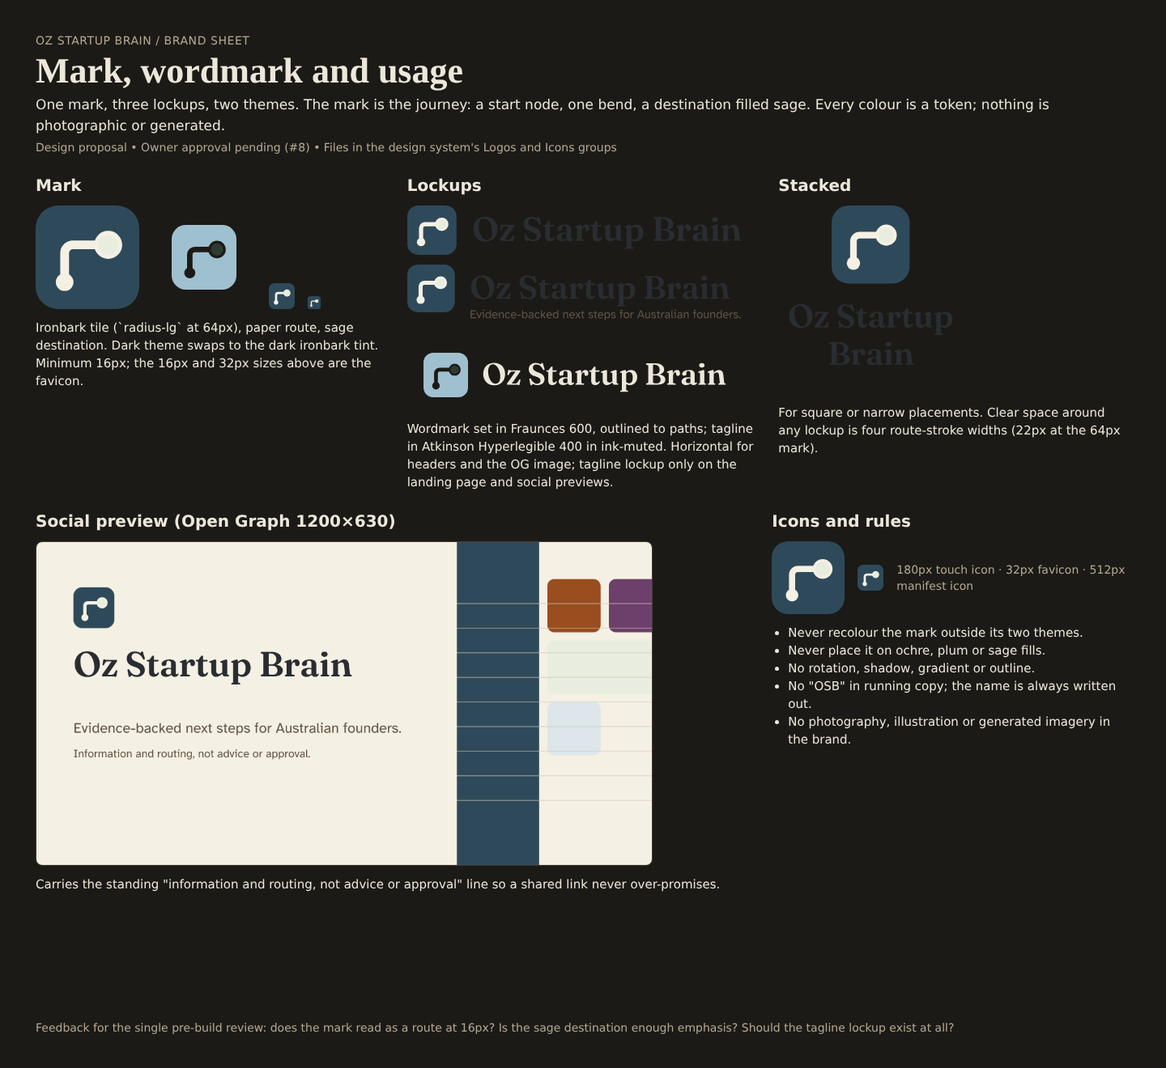
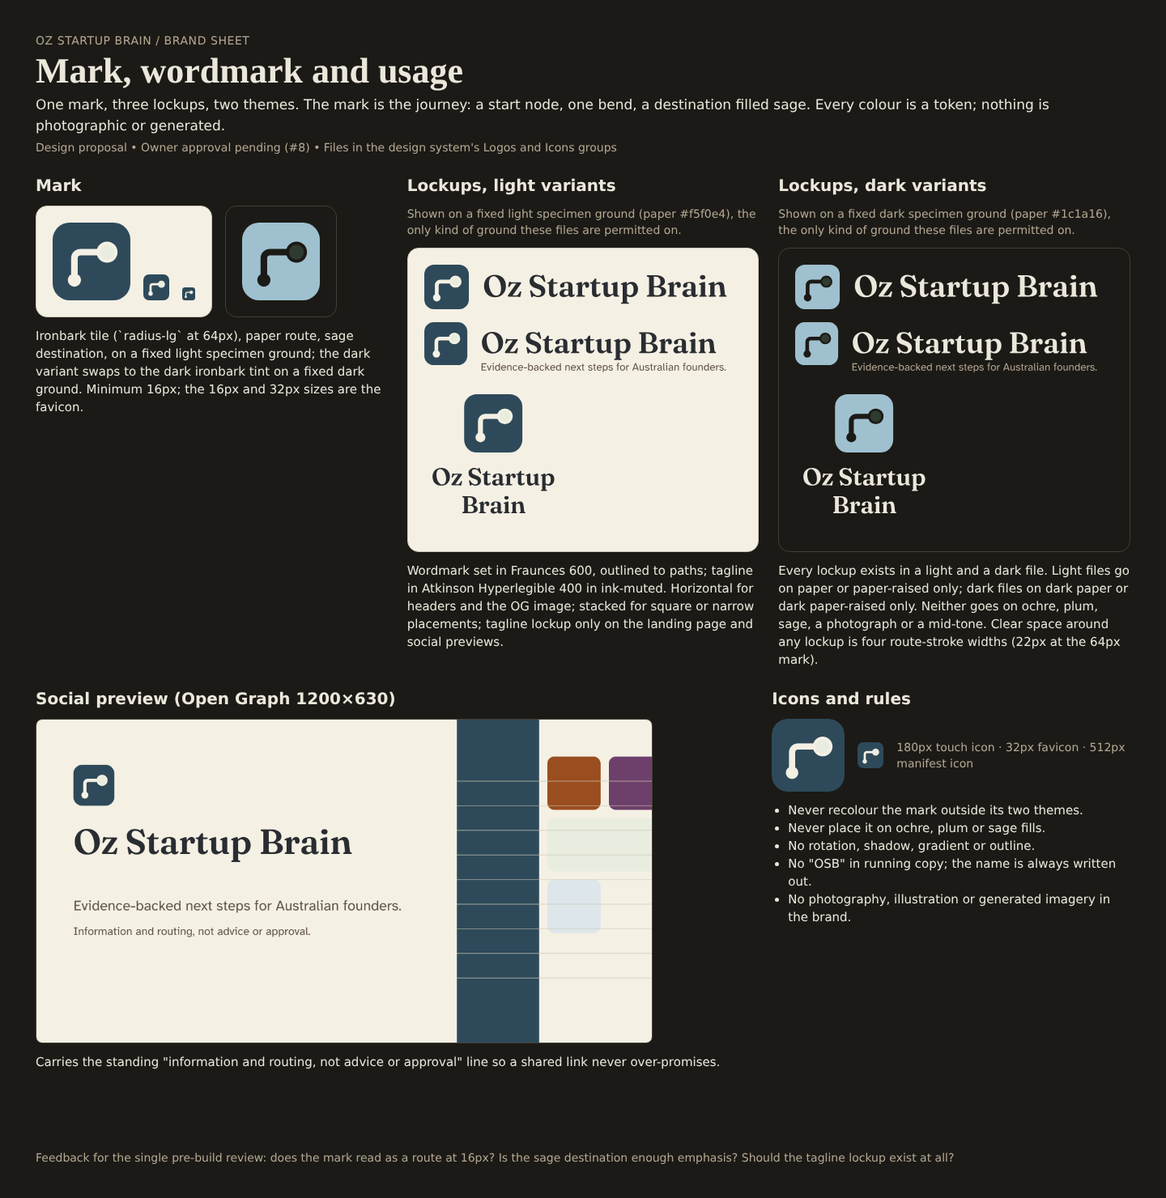
design: brand sheet on fixed specimen grounds; dark stacked/tagline lockups; reconcile embedded system version
Addresses the owner's review of PR #17:

1. Brand sheet: every lockup file is now shown on a fixed specimen ground of
   the kind it is permitted on (light files on paper #f5f0e4, dark files on
   dark paper #1c1a16) instead of on the theme-dependent page paper, so the
   dark render is readable. Stacked and tagline lockups gain dark files
   (wordmark-stacked-dark.svg, wordmark-tagline-dark.svg, with rasters),
   uploaded to the design system's Logos group and to the canvas. The Logos
   README, the brand book and the sheet state the permitted grounds for
   each file. Sheet height 1320 -> 1480; bounds check still passes.

2. Embedded design-system version: the files the canvas embeds were compared
   byte for byte with the committed system export and were identical; the
   stale stamp in canvas.json is replaced by the version actually copied
   (now system version 9, after the Logos README change) and the mock-ups
   handoff records the check. All three handoffs carry the new stamps
   (system v9 1793909088-3a56, canvas v14 1793909145-03de).

3. Renderer regression tests: two new cases, an unmapped blob ID and a
   mapped-but-missing asset file, both of which must fail in both themes
   and name the broken asset. 5 tests pass.

Claude-Session: https://claude.ai/code/session_01GGe58LcKV8w2qgCKuFGDot

diff --git a/design/mockups/Brand-Sheet.dc.html b/design/mockups/Brand-Sheet.dc.html
@@ -18,7 +18,7 @@ body{margin:0;background:var(--paper);color:var(--ink);font-family:var(--font-sa
 a{color:var(--ironbark)}a:hover{color:var(--ink)}
 </style>
 </helmet>
-<div style="width: 1440px; height: 1320px; box-sizing: border-box; padding: 40px 44px; display: flex; flex-direction: column; gap: 24px; background: var(--paper); color: var(--ink); font-family: var(--font-sans);">
+<div style="width: 1440px; height: 1480px; box-sizing: border-box; padding: 40px 44px; display: flex; flex-direction: column; gap: 24px; background: var(--paper); color: var(--ink); font-family: var(--font-sans);">
   <div style="display: flex; flex-direction: column; gap: 4px;">
     <p style="margin: 0; font-size: 14px; line-height: 20px; color: var(--ink-muted); text-transform: uppercase; letter-spacing: 0.04em;">Oz Startup Brain / Brand sheet</p>
     <h1 style="margin: 0; font-family: var(--font-display); font-size: 44px; line-height: 48px; font-weight: 600;">Mark, wordmark and usage</h1>
@@ -30,24 +30,34 @@ a{color:var(--ironbark)}a:hover{color:var(--ink)}
     <div style="display: flex; flex-direction: column; gap: 12px; min-width: 0;">
       <h2 style="margin: 0; font-size: 20px; line-height: 26px; font-weight: 700;">Mark</h2>
       <div style="display: flex; gap: 16px; align-items: flex-end;">
-        <img src="/_blob/dc53e1856b394cde767255e8a132b3ce" alt="Oz Startup Brain mark, light theme" style="width: 128px; height: 128px;">
-        <div style="box-sizing: border-box; padding: 24px; border-radius: 14px; background: #1c1a16;"><img src="/_blob/ce147218370253c6ab9744f53c52067c" alt="Oz Startup Brain mark, dark theme" style="width: 80px; height: 80px; display: block;"></div>
-        <img src="/_blob/dc53e1856b394cde767255e8a132b3ce" alt="" style="width: 32px; height: 32px;">
-        <img src="/_blob/dc53e1856b394cde767255e8a132b3ce" alt="" style="width: 16px; height: 16px;">
+        <div style="box-sizing: border-box; display: flex; gap: 16px; align-items: flex-end; padding: 20px; border-radius: 14px; background: #f5f0e4; border: 1px solid #cfc8b8;">
+          <img src="/_blob/dc53e1856b394cde767255e8a132b3ce" alt="Oz Startup Brain mark, light variant" style="width: 96px; height: 96px; display: block;">
+          <img src="/_blob/dc53e1856b394cde767255e8a132b3ce" alt="" style="width: 32px; height: 32px; display: block;">
+          <img src="/_blob/dc53e1856b394cde767255e8a132b3ce" alt="" style="width: 16px; height: 16px; display: block;">
+        </div>
+        <div style="box-sizing: border-box; padding: 20px; border-radius: 14px; background: #1c1a16; border: 1px solid #443e35;"><img src="/_blob/ce147218370253c6ab9744f53c52067c" alt="Oz Startup Brain mark, dark variant" style="width: 96px; height: 96px; display: block;"></div>
       </div>
-      <p style="margin: 0; font-size: 15px; line-height: 22px;">Ironbark tile (`radius-lg` at 64px), paper route, sage destination. Dark theme swaps to the dark ironbark tint. Minimum 16px; the 16px and 32px sizes above are the favicon.</p>
+      <p style="margin: 0; font-size: 15px; line-height: 22px;">Ironbark tile (`radius-lg` at 64px), paper route, sage destination, on a fixed light specimen ground; the dark variant swaps to the dark ironbark tint on a fixed dark ground. Minimum 16px; the 16px and 32px sizes are the favicon.</p>
     </div>
     <div style="display: flex; flex-direction: column; gap: 12px; min-width: 0;">
-      <h2 style="margin: 0; font-size: 20px; line-height: 26px; font-weight: 700;">Lockups</h2>
-      <img src="/_blob/329e5881af294a2bc191a2ba51b20d5d" alt="Horizontal wordmark: mark beside Oz Startup Brain" style="width: 100%; max-width: 420px; height: auto;">
-      <img src="/_blob/7c6db78fd45293ff9f0ca7d340078987" alt="Horizontal wordmark with tagline" style="width: 100%; max-width: 420px; height: auto;">
-      <div style="box-sizing: border-box; padding: 16px 20px; border-radius: 14px; background: #1c1a16;"><img src="/_blob/e25cdf1e4052de6748f783078e850b22" alt="Horizontal wordmark, dark theme" style="width: 100%; max-width: 380px; height: auto; display: block;"></div>
-      <p style="margin: 0; font-size: 15px; line-height: 22px;">Wordmark set in Fraunces 600, outlined to paths; tagline in Atkinson Hyperlegible 400 in ink-muted. Horizontal for headers and the OG image; tagline lockup only on the landing page and social previews.</p>
+      <h2 style="margin: 0; font-size: 20px; line-height: 26px; font-weight: 700;">Lockups, light variants</h2>
+      <p style="margin: 0; font-size: 14px; line-height: 20px; color: var(--ink-muted);">Shown on a fixed light specimen ground (paper #f5f0e4), the only kind of ground these files are permitted on.</p>
+      <div style="box-sizing: border-box; display: flex; flex-direction: column; gap: 16px; padding: 20px; border-radius: 14px; background: #f5f0e4; border: 1px solid #cfc8b8;">
+        <img src="/_blob/329e5881af294a2bc191a2ba51b20d5d" alt="Horizontal wordmark, light variant: mark beside Oz Startup Brain" style="width: 100%; max-width: 380px; height: auto; display: block;">
+        <img src="/_blob/7c6db78fd45293ff9f0ca7d340078987" alt="Horizontal wordmark with tagline, light variant" style="width: 100%; max-width: 380px; height: auto; display: block;">
+        <img src="/_blob/5517cf27ba9d00c6c8b4dd4e6cbb2eab" alt="Stacked wordmark, light variant: mark above Oz Startup Brain on two lines" style="width: 170px; height: auto; display: block;">
+      </div>
+      <p style="margin: 0; font-size: 15px; line-height: 22px;">Wordmark set in Fraunces 600, outlined to paths; tagline in Atkinson Hyperlegible 400 in ink-muted. Horizontal for headers and the OG image; stacked for square or narrow placements; tagline lockup only on the landing page and social previews.</p>
     </div>
     <div style="display: flex; flex-direction: column; gap: 12px; min-width: 0;">
-      <h2 style="margin: 0; font-size: 20px; line-height: 26px; font-weight: 700;">Stacked</h2>
-      <img src="/_blob/5517cf27ba9d00c6c8b4dd4e6cbb2eab" alt="Stacked wordmark: mark above Oz Startup Brain on two lines" style="width: 228px; height: auto;">
-      <p style="margin: 0; font-size: 15px; line-height: 22px;">For square or narrow placements. Clear space around any lockup is four route-stroke widths (22px at the 64px mark).</p>
+      <h2 style="margin: 0; font-size: 20px; line-height: 26px; font-weight: 700;">Lockups, dark variants</h2>
+      <p style="margin: 0; font-size: 14px; line-height: 20px; color: var(--ink-muted);">Shown on a fixed dark specimen ground (paper #1c1a16), the only kind of ground these files are permitted on.</p>
+      <div style="box-sizing: border-box; display: flex; flex-direction: column; gap: 16px; padding: 20px; border-radius: 14px; background: #1c1a16; border: 1px solid #443e35;">
+        <img src="/_blob/e25cdf1e4052de6748f783078e850b22" alt="Horizontal wordmark, dark variant" style="width: 100%; max-width: 380px; height: auto; display: block;">
+        <img src="/_blob/ee5cf27cfccf3d3943087c275df2d6ac" alt="Horizontal wordmark with tagline, dark variant" style="width: 100%; max-width: 380px; height: auto; display: block;">
+        <img src="/_blob/243215801c2fe43e4db366c350e27fa8" alt="Stacked wordmark, dark variant" style="width: 170px; height: auto; display: block;">
+      </div>
+      <p style="margin: 0; font-size: 15px; line-height: 22px;">Every lockup exists in a light and a dark file. Light files go on paper or paper-raised only; dark files on dark paper or dark paper-raised only. Neither goes on ochre, plum, sage, a photograph or a mid-tone. Clear space around any lockup is four route-stroke widths (22px at the 64px mark).</p>
     </div>
   </div>
 
@@ -77,7 +87,7 @@ a{color:var(--ironbark)}a:hover{color:var(--ink)}
   <p style="margin: auto 0 0; font-size: 14px; line-height: 20px; color: var(--ink-muted);">Feedback for the single pre-build review: does the mark read as a route at 16px? Is the sage destination enough emphasis? Should the tagline lockup exist at all?</p>
 </div>
 </x-dc>
-<script type="text/x-dc" data-dc-script data-props='{"$preview":{"width":1440,"height":1320}}'>
+<script type="text/x-dc" data-dc-script data-props='{"$preview":{"width":1440,"height":1480}}'>
 class Component extends DCLogic {
   renderVals() { return {}; }
 }

diff --git a/design/tools/test_render.py b/design/tools/test_render.py
@@ -75,6 +75,36 @@ class RenderRegressionTests(unittest.TestCase):
         for theme in ('light', 'dark'):
             self.assertIn(f'mockups/SB3-Route-{theme}', result.stdout)
 
+    def only_brand(self):
+        for source in (self.design / 'mockups').glob('*.dc.html'):
+            if source.name != 'Brand-Sheet.dc.html':
+                source.unlink()
+        for preview in (self.design / 'system/components').glob('*/preview.html'):
+            preview.unlink()
+
+    def test_unmapped_asset_id_fails_in_both_themes(self):
+        self.only_brand()
+        path = self.design / 'mockups/assets.json'
+        assets = json.loads(path.read_text())
+        removed = next(k for k, v in assets.items() if v == 'brand/wordmark-stacked.svg')
+        del assets[removed]
+        path.write_text(json.dumps(assets))
+        result = self.render()
+        self.assertEqual(result.returncode, 1, result.stdout + result.stderr)
+        for theme in ('light', 'dark'):
+            self.assertIn(f'mockups/Brand-Sheet-{theme}', result.stdout)
+        self.assertIn('broken image: /_blob/' + removed, result.stdout)
+
+    def test_mapped_but_missing_asset_file_fails_in_both_themes(self):
+        self.only_brand()
+        (self.design / 'brand/wordmark-tagline-dark.svg').unlink()
+        result = self.render()
+        self.assertEqual(result.returncode, 1, result.stdout + result.stderr)
+        for theme in ('light', 'dark'):
+            self.assertIn(f'mockups/Brand-Sheet-{theme}', result.stdout)
+        self.assertIn('broken image: /_blob/', result.stdout)
+        self.assertEqual(result.stdout.count('broken image:'), 2, result.stdout)
+
 
 if __name__ == '__main__':
     unittest.main()

diff --git a/design/mockups/HANDOFF.md b/design/mockups/HANDOFF.md
@@ -5,8 +5,8 @@ Versioned export of the "Oz Startup Brain Mock-ups" Claude Design canvas: the ar
 | Item | Value |
 | --- | --- |
 | Artifact | https://claude.ai/artifact/Dh4MHqWBNHXCYJRzAudKfc |
-| Artifact version exported | `1793907876-4a56` (version 11) |
-| Design system used | `../system/` at artifact version `1793907871-f437` |
+| Artifact version exported | `1793909145-03de` (version 14) |
+| Design system used | `../system/` at artifact version `1793909088-3a56` (version 9); `canvas.json` → `designSystems[0].version` carries the same identifier |
 | Export date | 6 November 2026 |
 | Owner approval | **Pending** — one review with the design system and brand kit (#8) |
 
@@ -18,10 +18,12 @@ Versioned export of the "Oz Startup Brain Mock-ups" Claude Design canvas: the ar
 | SB3 Ask (390×844) | `SB3-Ask.dc.html` | [`SB3-Ask-light.png`](../exports/mockups/SB3-Ask-light.png), [`SB3-Ask-dark.png`](../exports/mockups/SB3-Ask-dark.png) | Type or record deliberately; provider disclosure placeholder |
 | SB3 Review transcript (390×844) | `SB3-Transcript.dc.html` | [`SB3-Transcript-light.png`](../exports/mockups/SB3-Transcript-light.png), [`SB3-Transcript-dark.png`](../exports/mockups/SB3-Transcript-dark.png) | Editable transcript with a flagged place name (SC10) |
 | SB3 Route and coverage (390×844) | `SB3-Route.dc.html` | [`SB3-Route-light.png`](../exports/mockups/SB3-Route-light.png), [`SB3-Route-dark.png`](../exports/mockups/SB3-Route-dark.png) | One next step with dated evidence and an honest outside-coverage gap |
-| Brand sheet (1440×1320) | `Brand-Sheet.dc.html` | [`Brand-Sheet-light.png`](../exports/mockups/Brand-Sheet-light.png), [`Brand-Sheet-dark.png`](../exports/mockups/Brand-Sheet-dark.png) | Mark in both themes and at favicon sizes, three lockups, OG preview, icons and usage rules (see `../brand/HANDOFF.md`) |
+| Brand sheet (1440×1480) | `Brand-Sheet.dc.html` | [`Brand-Sheet-light.png`](../exports/mockups/Brand-Sheet-light.png), [`Brand-Sheet-dark.png`](../exports/mockups/Brand-Sheet-dark.png) | Mark and the three lockups in their light and dark files, each on a fixed specimen ground of the kind it is permitted on (so the sheet reads in both themes), favicon sizes, OG preview, icons and usage rules (see `../brand/HANDOFF.md`) |
 | SB3 Listen or read (390×844) | `SB3-Summary.dc.html` | [`SB3-Summary-light.png`](../exports/mockups/SB3-Summary-light.png), [`SB3-Summary-dark.png`](../exports/mockups/SB3-Summary-dark.png) | Spoken summary on request with sources visible (SC11 variant) |
 
 `../tools/render.py` performs a geometric bounds check as part of every render: in both themes, every button, link, input, select, textarea, paragraph and heading on every artboard must lie inside its artboard's frame from `canvas.json`, or the script prints `BOUNDS <artboard> <theme>: <element>` and exits nonzero. The committed exports were produced by a passing run on 6 November 2026. This is a check of the fallback-font render, not of the hosted artifact's exact glyph widths.
+
+**Embedded design-system version.** The canvas copies the design system's `README.md`, `tokens.json`, `components/bundle.js` and `components/bundle.css` into `ds/oz-startup-brain/` at publish time; `canvas.json` records which artifact version they came from. Before version 14 that stamp still read `1793907664-c590` (the first copy) although the copied files had been refreshed on each republish: the files embedded in canvas version 12 were compared byte for byte with the committed version-8 export of `../system/` and were identical, so the stamp was stale metadata, not a divergent system. The stamp is now set from the version actually copied and must be updated on every re-export; the same comparison (`cmp` of the four files against `../system/`) is the check.
 
 Every program, round, source and person on these boards is a labelled fictional fixture. The `.dc.html` files mount the design system's components with `<x-import>`; `../tools/render.py` reproduces the PNGs with a minimal stand-in for the canvas runtime (fallback fonts) and resolves uploaded canvas assets through `assets.json`, failing on any unmapped image.
 

diff --git a/design/brand/HANDOFF.md b/design/brand/HANDOFF.md
@@ -4,8 +4,8 @@ Versioned export of the brand assets kept in the "Oz Startup Brain" Design Syste
 
 | Item | Value |
 | --- | --- |
-| Design system artifact version | `1793907871-f437` (version 8) |
-| Mock-ups canvas version (Brand sheet) | `1793907876-4a56` (version 11) |
+| Design system artifact version | `1793909088-3a56` (version 9) |
+| Mock-ups canvas version (Brand sheet) | `1793909145-03de` (version 14) |
 | Export date | 6 November 2026 |
 | Owner approval | **Pending** — reviewed together with the design system and mock-ups under #8 |
 
@@ -15,8 +15,8 @@ Versioned export of the brand assets kept in the "Oz Startup Brain" Design Syste
 | --- | --- |
 | `mark.svg`, `mark-dark.svg` | The mark for light and dark grounds. Ironbark tile, paper route, sage destination; built from the system's own tokens and radii |
 | `wordmark-horizontal.svg`, `-dark.svg` | Mark beside "Oz Startup Brain" in Fraunces 600, text outlined to paths (no font dependency) |
-| `wordmark-stacked.svg` | Mark above a two-line wordmark for square or narrow placements |
-| `wordmark-tagline.svg` | Horizontal lockup with the tagline in Atkinson Hyperlegible 400 |
+| `wordmark-stacked.svg`, `-dark.svg` | Mark above a two-line wordmark for square or narrow placements |
+| `wordmark-tagline.svg`, `-dark.svg` | Horizontal lockup with the tagline in Atkinson Hyperlegible 400 |
 | `favicon.svg`, `favicon.ico`, `png/favicon-16.png`, `png/favicon-32.png` | Browser icons |
 | `png/apple-touch-icon-180.png`, `png/mark-512.png` | iOS and PWA icons |
 | `avatar.svg`, `png/avatar-512.png` | Square social avatar |
@@ -24,7 +24,7 @@ Versioned export of the brand assets kept in the "Oz Startup Brain" Design Syste
 | `png/wordmark-*.png` | Raster lockups for places that cannot use SVG |
 | `../exports/mockups/Brand-Sheet-light.png`, `-dark.png` | The brand sheet artboard rendered |
 
-Usage rules (clear space, minimum sizes, forbidden treatments) are in `../system/assets/Logos/README.md` and in the brand book's "Logo and wordmark" section.
+Every lockup has a light file (dark lettering, for `paper`/`paper-raised`) and a dark file (light lettering, for dark `paper`/`paper-raised`); choose by the ground the lockup sits on. Usage rules (clear space, minimum sizes, permitted grounds, forbidden treatments) are in `../system/assets/Logos/README.md` and in the brand book's "Logo and wordmark" section.
 
 ## Provenance and limits
 

diff --git a/design/system/HANDOFF.md b/design/system/HANDOFF.md
@@ -5,7 +5,7 @@ This folder is a versioned export of the "Oz Startup Brain" design system kept a
 | Item | Value |
 | --- | --- |
 | Artifact | https://claude.ai/artifact/S3Nuo9DbM5XgTDkHdi5y9a |
-| Artifact version exported | `1793907871-f437` (version 8) |
+| Artifact version exported | `1793909088-3a56` (version 9) |
 | Export date | 6 November 2026 |
 | Exported by | Claude, on the owner's instruction (owner decision 10) |
 | Owner approval | **Pending** — one review covers the design system, the mock-ups and the brand kit (#8); nothing here is approved for implementation until that review is recorded in this file |
@@ -16,7 +16,7 @@ This folder is a versioned export of the "Oz Startup Brain" design system kept a
 - `tokens.json` — the token source (colours in light and dark themes, type scale, spacing, radius). `tokens.css` is the compiled form used by the previews and the mock-ups.
 - `components/bundle.js`, `components/bundle.css`, `components/index.d.ts` — the fifteen React components as one classic script assigning `window.OzStartupBrain`, their stylesheet, and their prop types as documentation. `StatusNotice` carries the planner's operational conditions and is deliberately separate from `EvidenceLabel`.
 - `components/<Name>/README.md` and `preview.html` — guidelines and a live preview per component; `components/Cover/preview.html` is the artifact's cover.
-- `assets/Logos/` and `assets/Icons and social/` — the asset-group READMEs (usage rules). The files themselves are uploads in the artifact's asset store; their committed copies are in `../brand/` (see `../brand/HANDOFF.md`).
+- `assets/Logos/` and `assets/Icons and social/` — the asset-group READMEs (usage rules, including which ground each lockup file is permitted on). The files themselves are uploads in the artifact's asset store; their committed copies are in `../brand/` (see `../brand/HANDOFF.md`).
 - `../exports/components/<Name>-light.png` and `-dark.png` — every preview rendered in both themes with `../tools/render.py` (fallback fonts; see that script's notes).
 
 ## Status of what this establishes

diff --git a/design/system/README.md b/design/system/README.md
@@ -53,7 +53,7 @@ Glyphs are small inline SVG strokes drawn in the current text colour, 16px on a 
 
 ## Logo and wordmark
 
-The mark is an `ironbark` tile carrying a paper-coloured route with a `sage` destination node: the journey, drawn from the system's own tokens. Use `Logos/mark.svg` on light grounds and `Logos/mark-dark.svg` on dark ones; the horizontal lockup (`Logos/wordmark-horizontal.svg`) in page headers and the OG image, the stacked lockup where the space is square, and the tagline lockup only on the landing page and social previews. The wordmark text is outlined, so lockups need no font; in live UI the name beside the mark is set in `display-xl` or `display-md` in `ink`. Clear space is four route-stroke widths; the mark is never smaller than 16px and never recoloured, rotated, shadowed or placed on `ochre`, `plum` or `sage`. Favicon, app icons, avatar and the Open Graph image are in `Icons and social/`. No generated imagery, photography or illustration is part of the brand.
+The mark is an `ironbark` tile carrying a paper-coloured route with a `sage` destination node: the journey, drawn from the system's own tokens. Use `Logos/mark.svg` on light grounds and `Logos/mark-dark.svg` on dark ones; the horizontal lockup (`Logos/wordmark-horizontal.svg`) in page headers and the OG image, the stacked lockup where the space is square, and the tagline lockup only on the landing page and social previews. Each lockup has a light file for `paper`/`paper-raised` grounds and a `-dark` file for dark `paper`/`paper-raised` grounds; choose by the ground the lockup sits on, never by the page's theme. The wordmark text is outlined, so lockups need no font; in live UI the name beside the mark is set in `display-xl` or `display-md` in `ink`. Clear space is four route-stroke widths; the mark is never smaller than 16px and never recoloured, rotated, shadowed or placed on `ochre`, `plum` or `sage`. Favicon, app icons, avatar and the Open Graph image are in `Icons and social/`. No generated imagery, photography or illustration is part of the brand.
 
 ## Accessibility
 

diff --git a/design/system/assets/Logos/README.md b/design/system/assets/Logos/README.md
@@ -3,7 +3,9 @@ Logo files. The mark is a single ironbark tile (`ironbark`) carrying a paper-col
 - `mark.svg` — light-theme mark (ironbark tile, paper route, sage destination). Use on `paper` and `paper-raised`.
 - `mark-dark.svg` — dark-theme mark (the dark `ironbark` tint as tile, dark paper route, dark sage destination). Use on dark `paper`.
 - `wordmark-horizontal.svg` / `-dark.svg` — mark + "Oz Startup Brain" in Fraunces 600, text outlined to paths so no font is needed; ink colour `ink` / dark `ink`.
-- `wordmark-stacked.svg` — mark above a two-line wordmark, for square or narrow placements.
-- `wordmark-tagline.svg` — horizontal lockup with the tagline in Atkinson Hyperlegible 400, `ink-muted`.
+- `wordmark-stacked.svg` / `-dark.svg` — mark above a two-line wordmark, for square or narrow placements.
+- `wordmark-tagline.svg` / `-dark.svg` — horizontal lockup with the tagline in Atkinson Hyperlegible 400, `ink-muted` / dark `ink-muted`.
+
+Permitted grounds: every lockup has a light file and a dark file. Light files (dark lettering) go only on `paper` or `paper-raised`; dark files (light lettering) go only on dark `paper` or dark `paper-raised`. Pick the file for the ground, never the theme of the surrounding page: a dark panel inside a light page takes the dark file. No lockup goes on a mid-tone, a photograph, or an `ochre`, `plum` or `sage` fill.
 
 Rules: clear space around any lockup is the height of the mark's route stroke times four (at 64px, 22px). Minimum size: mark 16px (favicon), horizontal lockup 160px wide. Do not recolour the mark outside its two themes, place it on `ochre`, `plum` or `sage` fills, rotate it, add a shadow, or set the name in another face. The wordmark is always "Oz Startup Brain" in that case; never "OSB" in running copy.

diff --git a/design/tools/README.md b/design/tools/README.md
@@ -22,6 +22,6 @@ OSB_RENDER_NODE_MODULES=/tmp/osb-render/node_modules \
   /tmp/osb-render-venv/bin/python -m unittest discover -s design/tools -p 'test_*.py' -v
 ```
 
-The tests run the real renderer in temporary copies. They verify all committed boards and component previews, shrink SB3-Route to clip its supporting-passage button, and inject a JavaScript error into the artboard. Both negative cases must fail in both themes and name the relevant failure. The working tree and committed PNGs are not modified. Missing dependencies are an error, not a skipped success.
+The tests run the real renderer in temporary copies. They verify all committed boards and component previews, shrink SB3-Route to clip its supporting-passage button, inject a JavaScript error into the artboard, remove an asset mapping from `mockups/assets.json` (unmapped blob ID), and delete a mapped brand file (mapped but missing). Every negative case must fail in both themes and name the relevant failure. The working tree and committed PNGs are not modified. Missing dependencies are an error, not a skipped success.
 
 A successful run checks fallback-font export geometry and renderer failure handling only. It does not establish the private hosted artifact's exact font metrics, responsive layouts, keyboard/screen-reader behaviour, accessibility conformance, owner design approval or any founder UX outcome.
